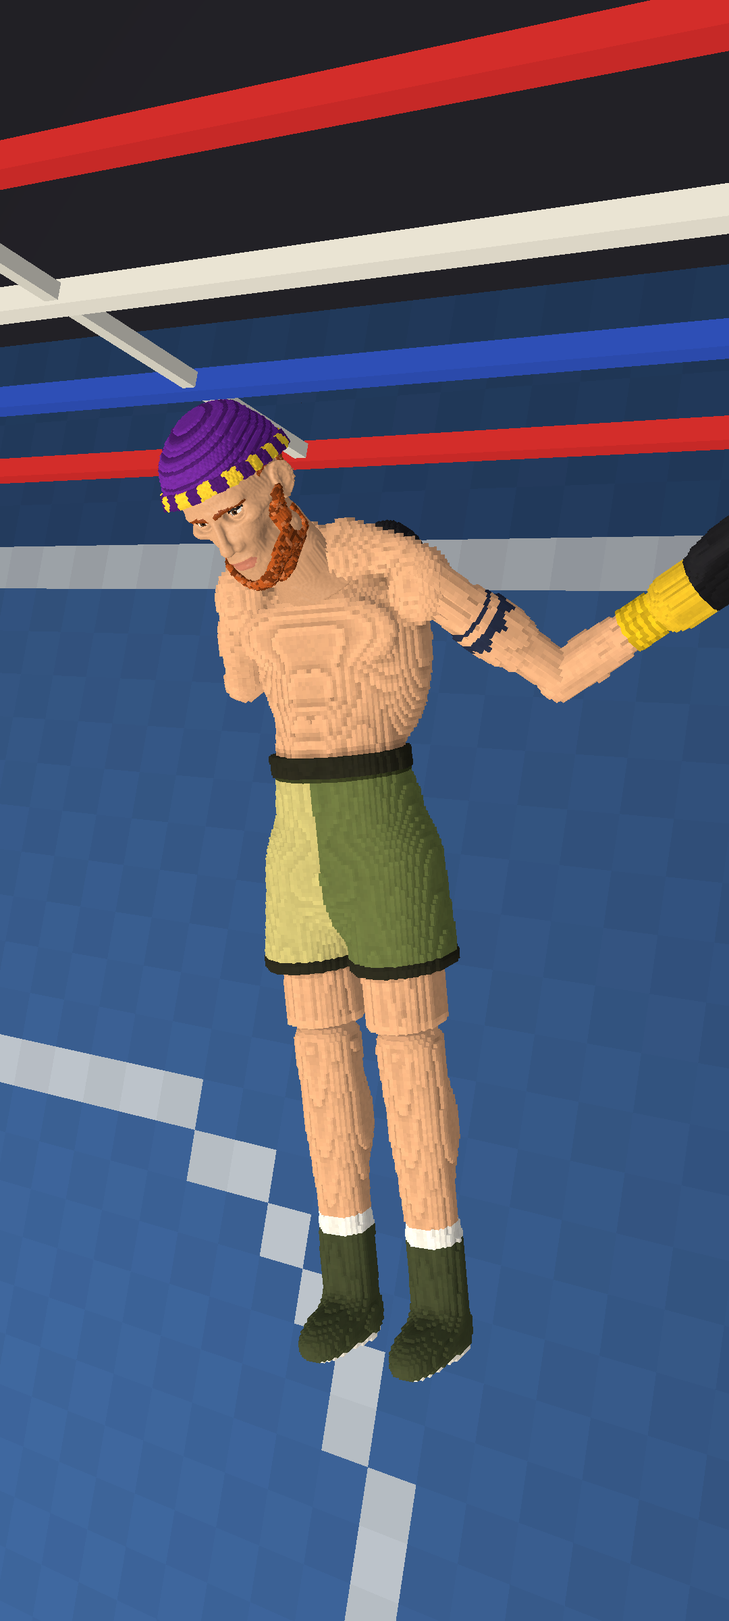
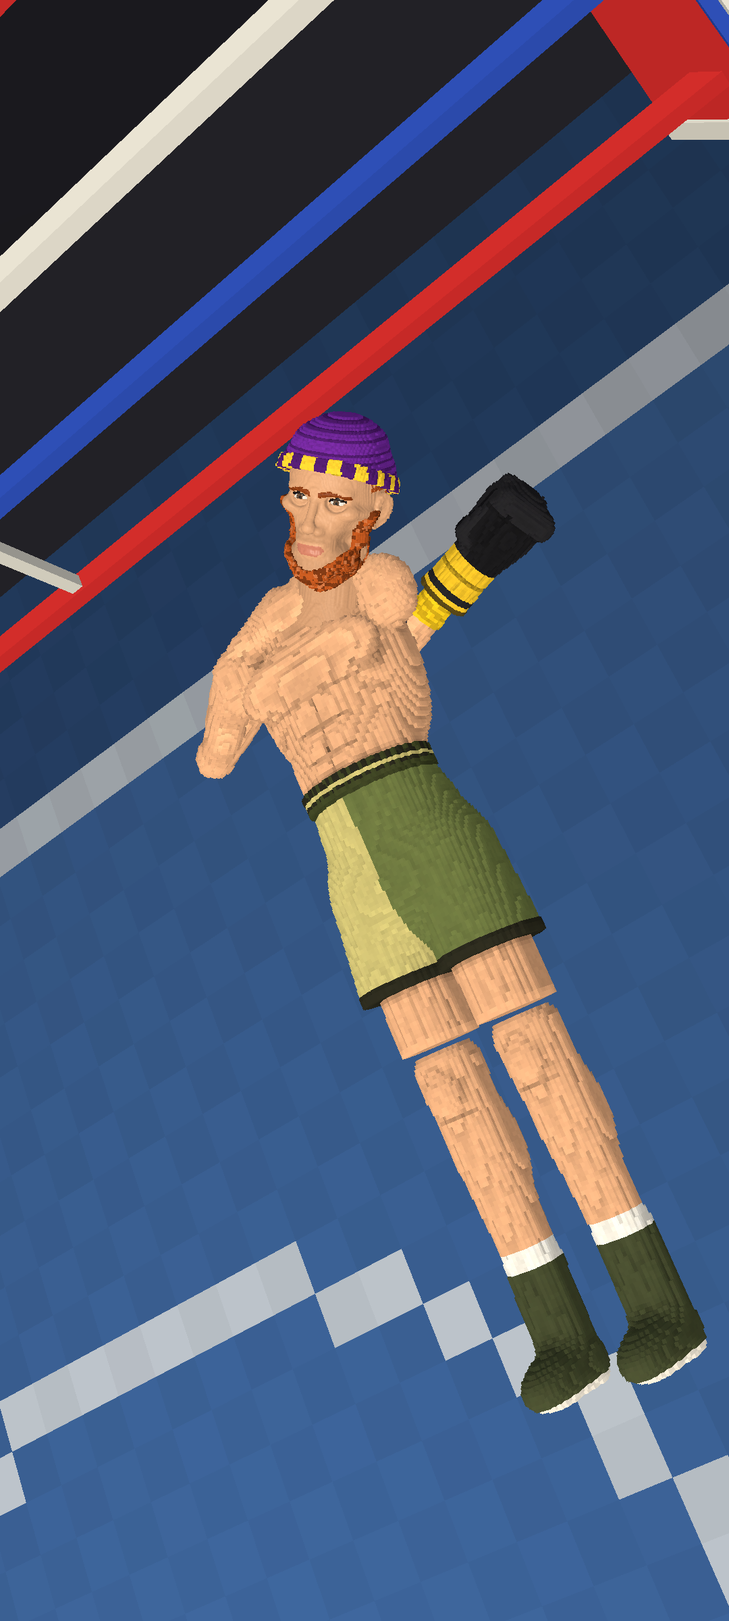
PHYSICS.md: падение с твёрдым корпусом — таблицы до/после, «Не сделано» по факту; переснятые снимки падения и плашки удара (портрет и ландшафт)

diff --git a/Unity/PHYSICS.md b/Unity/PHYSICS.md
@@ -1,6 +1,6 @@
 # Физика боя (Unity): отчёт
 
-Ветка `claude/fight-physics-dee515`, 26.11.2026. В main не слито и не запушено. Влит `origin/main` по 02ca796 (руки и тело, обход плашки).
+Ветка `claude/fight-physics-dee515`, 26.11.2026. В main не слито и не запушено. Влит `origin/main` по 1ad5329 (эмоции соперников: мимика и события лица работают вместе с новой реакцией головы).
 
 Все замеры сделаны в редакторе: в стендах `ShotsTaker.Phys*` (`Assets/Game/Editor/PhysicsProbe.cs`) и в тестах `PhysicsTests`. **На телефоне ничего не мерили**: время ниже — это редактор на ПК, частота кадров из него на телефон не переносится.
 
@@ -9,13 +9,13 @@
 | Направление | Итог |
 |---|---|
 | 1. Реакция на удар | Да, все критерии |
-| 2. Руки | Да, все критерии. Но отдача перчатки игрока ломает `FxDirectorTests.HitFx2_Criteria` (плашка удара), см. «Не сделано» |
-| 3. Нокдаун и падение | Да по старым критериям, кроме засыпания: 6 из 200 падений > 2,5 с (худшее 3,15 с) |
-| 3+. Пределы суставов | Суставы: почти (4 кадра из 47 200, худшее превышение 5,5°). Переразгибание и «книжка» ног: да. Взаимопроникновение ≤ 1,5 / 0,5 см: **нет** (11,3 / 6,5 см) |
+| 2. Руки | Да, все критерии. Плашка удара обходит руку игрока и в отдаче, `HitFx2_Criteria` зелёный без изменения порогов |
+| 3. Нокдаун и падение | Да: все 200 падений засыпают ≤ 2,5 с (худшее 2,47 с) |
+| 3+. Пределы суставов | Суставы: да (0 кадров за пределом). Переразгибание и «книжка» ног: да. Взаимопроникновение ≤ 1,5 / 0,5 см: **почти** — 64 кадра из 47 200 хуже 1,5 см (худшее 6,98 см), в покое худшее 0,68 см |
 | 4. Куски и капли | Да, все критерии |
 | Общие | Детерминизм, seed 77 и время: да. Частота кадров 30/60/120: да |
 
-Тесты: `VoxGame.Tests` 251/252 (красный `FxDirectorTests.HitFx2_Criteria`, причины ниже), `VoxProbe.Tests.Anatomy` 65/0. `ForearmTests` зелёные.
+Тесты: `VoxGame.Tests` 257/257 два прогона подряд; `VoxProbe.Tests` 75/0 отдельно (два прогона), сразу после тестов игры 74/75 — красный известный `AnatomyB10Tests.StumpMuscleLayersRender`.
 
 ## Как было, что было плохо
 
@@ -26,25 +26,29 @@
 
 ## Что изменено (файлы)
 
-- `Runtime/Presentation/FoeSpring.cs`: реакция цепочкой голова → корпус → корень с фиксированным шагом; удар в защиту — короткая отдача.
+- `Runtime/Presentation/FoeSpring.cs`: реакция цепочкой голова → корпус → корень с фиксированным шагом; удар в защиту — короткая отдача: голова получает 0,85 толчка, а после пика возврат идёт с жёсткой пружиной (защёлки `brake` по голове, шее, корню, повороту и скруту).
 - `Runtime/Presentation/FoeFall.cs` (новый): тряпичная кукла на 13 узлах.
   - Позиционная динамика: шаг 1/120, 6 итераций.
   - Ринг: настил и канаты; затухание в контакте, засыпание по RMS скорости, ограничение сдвига за подшаг.
   - Пределы: локоть ≥ 36° между плечом и предплечьем (сгиб ≤ 144°); плечо в конусе 115°; колено 0…140° (шарнир в отрисовке).
-  - Капсулы рук против корпуса, головы, голеней и другой руки. Если тело ложится на руку, приподнимается корпус, а руку не вдавливает в настил.
+  - Корпус (таз, грудь, плечи, колени) — твёрдое тело: после каждой итерации узлы ставятся на места по лучшему повороту формы по всем шести узлам (вращательная часть деформации). Раньше узел плеча уходил от плеча модели до 5 см, и развод рук в физике до модели не доходил.
+  - Капсулы рук против корпуса, головы, голеней и другой руки, с запасом 0,8 см. Добавлены пары: кулак — чужое плечо и предплечье, плечо — плечо, голова — плечо у сустава (двигается голова).
+  - Если тело ложится на руку, корпус приподнимается, но не выше, чем помещается рука (центр корпуса ≤ 26 см над настилом). Без этого предела плечо тянуло руку вверх вслед за корпусом, и тело «всплывало» на метры.
+  - Засыпает только тело на настиле (3+ узла в касании); после 1,9 с порог скорости в 4 раза мягче.
 - `Runtime/Presentation/FoeBody.cs`: перенос узлов падения на модель (`FallMap`), шарнир колена, шея со swing-twist-пределом (наклон 55°, скручивание 40°).
   - Руки лёжа: IK с полюсом от узла локтя; плечо ограничено конусом 115°; путь руки на подъёме идёт через сторону от плеча, а не сквозь корпус.
-  - Перчатка и предплечье выталкиваются из корпуса и головы (3 прохода), перчатка не уходит ниже настила.
+  - Общий проход по обеим рукам (`ArmsApart`, до 8 итераций) с теми же капсулами, что считает замер: корпус, голова, голени, другая рука. Локоть и запястье ставятся прямо, звенья постоянной длины, плечо в конусе 115°; тыльная сторона поворачивается вслед за плечом. В паре «рука — рука» сдвигается внешняя от корпуса рука. Перчатка не уходит ниже настила.
   - Подъём из замороженной позы: корпус поворачивается по пути, выбранному один раз, без рывка.
 - `Runtime/Presentation/BoxerParts.cs`: в `SolveArm` добавлен параметр наименьшего расстояния плечо–кулак (`nearM`). Игрок не меняется.
-- `Runtime/Presentation/PlayerGloves.cs`: отдача перчатки игрока после попадания.
-- `Runtime/Presentation/FightDirector.cs`: куски в рамке ринга, `SetArena` и `ResetFall`.
+- `Runtime/Presentation/PlayerGloves.cs`: отдача перчатки игрока после попадания; позы руки в отдаче (`RecoilGhost`: IK с перчаткой на 0, ½ и полной отдаче к плечу, перчатка сплющена) для обхода плашки.
+- `Runtime/Effects/FxDirector.cs`: маска рук для плашки удара учитывает позы отдачи (`ArmGhost`). Запрет на `Runtime/Effects/*` снят главным чатом.
+- `Runtime/Presentation/FightDirector.cs`: куски в рамке ринга, `SetArena` и `ResetFall`, подключение `ArmGhost`. Часть `AnatSkin` не трогал.
 - `Probe/Runtime/Anatomy/AnatPieces.cs`: режим `space` (рамка ринга), время засыпания.
 - `Runtime/Presentation/PhysMetrics.cs`: метрики для стендов.
 - Стенды в `Editor/PhysicsProbe.cs`: `PhysReact`, `PhysArms`, `PhysFalls`, `PhysKO`, `PhysPieces`, `PhysLimbShots`, `PhysTiming`.
 - Тесты в `Tests/PhysicsTests.cs`, в том числе `FallStaysInRingAndFollowsHit`, `FallFrameRateIndependent`, `FallKeepsJointLimits`, `PiecesLieOnRingFloor`.
 
-Геометрию и окраску моделей, `Runtime/Effects/*` и веб-версию не трогал.
+Геометрию и окраску моделей и веб-версию не трогал.
 
 ## 1. Реакция на удар (`PhysReact`, 60 к/с)
 
@@ -55,7 +59,7 @@
 | Пик корпуса позже головы | 2–8 кадров | 0 | 4–5 |
 | Успокоение | 0,35–0,9 с | 0,63 с | 0,53 с |
 | Переходы через ноль | ≤ 2 | 1 | 0 |
-| Удар в защиту | короткая отдача | голова 1,87 см | голова 4,21 см, успокоение 0,53 с |
+| Удар в защиту | короткая отдача | голова 1,87 см | пик головы 7,63 см (0,73 хука), возврат до четверти пика быстрее хука (тест `StrongBeatsWeak_GuardShort`), успокоение 0,52 с |
 
 Частота кадров: при 30, 60 и 120 к/с пики совпадают до 0,3 %; запаздывание 2 / 4 / 8 кадров — это одни и те же 67 мс.
 
@@ -76,13 +80,14 @@
 | NaN | 0 | — | 0 |
 | Узлы ниже настила > 2 см | 0 | сетка до −51 см | 0 (узлы); сетка — худшее −8,8 см (предплечье) |
 | Вне ринга | 0 | бывало | 0 |
-| Лежит за ≤ 2,5 с | все | — | 194/200, худшее 3,15 с |
-| Ложится по удару (≤ 45°) | ≥ 90 % | — | 96,5 % (7 из 200 хуже, худшее 87,7°) |
+| Лежит за ≤ 2,5 с | все | — | 200/200, худшее 2,47 с (было 194/200, худшее 3,15 с) |
+| Ложится по удару (≤ 45°) | ≥ 90 % | — | 97,5 % (5 из 200 хуже, худшее 65,1°; было 96,5 %, 87,7°) |
 | Рывок при подъёме | ≤ 5 % роста за кадр | рывок 28–67 см | 2,84 % |
 | Поза после подъёма | как стойка | — | расхождение 0,06 см |
-| Нокаут (20 падений) | | | 0 NaN, 0 под настилом, 0 вне ринга, засыпание ≤ 2,05 с, по удару 95 % |
-| 30 / 120 к/с (по 20 падений) | то же | | засыпание ≤ 2,23 / 2,28 с, по удару 100 / 100 %, рывок 2,73 / 3,33 % |
-| У угла ринга (20 падений) | | | засыпание ≤ 1,98 с, по удару 100 %, рывок 2,54 % |
+| Нокаут (20 падений) | | | 0 NaN, 0 под настилом, 0 вне ринга, засыпание ≤ 2,15 с, по удару 100 % |
+| 30 / 120 к/с (по 20 падений) | то же | | засыпание ≤ 2,17 / 2,15 с, по удару 100 / 95 %, рывок 2,63 / 3,33 % |
+| У угла ринга (20 падений) | | | засыпание ≤ 2,45 с, по удару 95 %, рывок 2,55 % |
+| Сетка ниже настила | | | худшее −5,2 см (ноги; было −8,8 см, предплечье) |
 
 ## 3+. Пределы суставов и взаимопроникновение
 
@@ -90,11 +95,11 @@
 
 | Сустав | Предел в физике и позе | Предел в замере | Худшее за 200 падений |
 |---|---|---|---|
-| Колено | 0…140° (шарнир, без переразгибания) | 0…140°, переразгибание ≤ 5° | 140,0°, переразгибание 0° |
+| Колено | 0…140° (шарнир, без переразгибания) | 0…140°, переразгибание ≤ 5° | 140,0°, переразгибание 0°. С твёрдым корпусом колени гнутся реже: в покое обычно прямые ноги |
 | Локоть | сгиб ≤ 144° (плечо–предплечье ≥ 36°), 0° — прямая рука | 0…145° | 143,7°, переразгибания нет |
-| Плечо | конус 115° от «наружу-вниз»; скручивание переносом стойки без поворота на 180° | конус 120°, скручивание 100° | конус 125,5° (4 кадра > 123°), скручивание 55,1° |
+| Плечо | конус 115° от «наружу-вниз»; скручивание переносом стойки без поворота на 180° | конус 120°, скручивание 100° | конус 115,0° (0 кадров > 123°; было 125,5°), скручивание 74,7° |
 | Шея | наклон 55°, скручивание 40° (swing-twist) | 60° / 45° | 55,0° / 7,7° |
-| Запястье | перчатка по линии предплечья | 30° | 9,5° |
+| Запястье | перчатка по линии предплечья | 30° | 10,6° |
 | Бедро и поясница | жёстко: бедро — часть сетки корпуса | бедро–корпус ≥ 30° | 180° (прямо) |
 | Голеностоп | жёстко: голени и ботинки — одна сетка | — | — |
 
@@ -102,26 +107,32 @@
 
 ### Критерии (счёт по кадрам после 0,2 с и в позе покоя, `PhysFalls`)
 
-| Критерий | Нужно | Худшее значение | Где |
-|---|---|---|---|
-| Кадры со суставом > предела на 3° | 0 | **4 кадра из 47 200**, плечо 5,53° | seed=15 k=6 t=1,13 |
-| Переразгибание колена или локтя > 5° | 0 | 0 | — |
-| Взаимопроникновение после 0,2 с | ≤ 1,5 см | **11,3 см** (плечо1–перчатка0) | seed=18 k=6 t=2,00 |
-| Взаимопроникновение в покое | ≤ 0,5 см | **6,47 см** (корпус–предплечье1) | seed=3 k=0 t=1,70 |
-| Бедро–голень в покое | ≥ 35° | 40° | — |
-| Бедро–корпус в покое | ≥ 30° | 180° (жёсткое бедро) | — |
-| Обе голени в одном объёме | 0 | 0/200 | — |
-| Нокаут (20 падений) | | суставы 0, переразгибание 0, проникновение 3,27 см, в покое 1,47 см | — |
-| 30 / 120 к/с | | суставы 0 / 0, проникновение 5,86 / 5,86 см, в покое 5,74 / 0,86 см | — |
+| Критерий | Нужно | До (17546f3) | После | Где худшее |
+|---|---|---|---|---|
+| Кадры со суставом > предела на 3° | 0 | 4 из 47 200, плечо 5,53° | **0** | — |
+| Переразгибание колена или локтя > 5° | 0 | 0 | 0 | — |
+| Взаимопроникновение после 0,2 с | ≤ 1,5 см | 11,3 см; кадров > 1,5 см: 3 640 | **6,98 см; кадров > 1,5 см: 64 из 47 200 (0,14 %)** — корпус–предплечье 32, голова–плечо 23, плечо–плечо 3, плечо–предплечье 3, перчатка–перчатка 2, корпус–предплечье0 1 | seed=5 k=9 t=1,65 |
+| Взаимопроникновение в покое | ≤ 0,5 см | 6,47 см | **0,68 см** (голова–плечо у сустава) | seed=3 k=4 |
+| Засыпание ≤ 2,5 с | все 200 | 194/200, 3,15 с | **200/200**, 2,47 с | — |
+| Бедро–голень в покое | ≥ 35° | 40° | 40° | — |
+| Бедро–корпус в покое | ≥ 30° | 180° | 180° (жёсткое бедро) | — |
+| Обе голени в одном объёме | 0 | 0/200 | 0/200 | — |
+| Нокаут (20 падений) | | проникновение 3,27 см, в покое 1,47 см | суставы 0; **0,12 см, в покое 0** | — |
+| 30 к/с (20 падений) | | 5,86 / 5,74 см | суставы 0; **4,44 см** (3 кадра > 1,5 см), **в покое 0** | seed=3 k=1 |
+| 120 к/с (20 падений) | | 5,86 / 0,86 см | суставы 0; **5,35 см** (7 кадров > 1,5 см), **в покое 0,69 см** | seed=3 k=1 |
+| У угла ринга (20 падений) | | 9,34 / 3,37 см | суставы 0; 6,42 см (10 кадров), в покое 0 | seed=3 k=1 |
+| Узлы физики друг в друге | (справочно) | 6,0 см, 1 573 кадра > 1,5 см | 17,5 см, 323 кадра | seed=3 k=1 t=1,23 |
 
-Взаимопроникновение — это перекрытие капсул сегментов на модели: корпус 13 см, голова 11, плечо 5, предплечье 4,5, перчатка 7, голень 5,5 см (радиусы × масштаб бойца); соседние звенья не считаются. Больше всего кадров > 1,5 см дают пары корпус–предплечье (922 + 466), плечо1–перчатка0 (915), голова–плечо (594 + 385). В узлах самой физики перекрытие меньше (худшее 6 см). Основная часть ошибки возникает при переносе узлов на модель: длины звеньев в IK модели другие, перчатку не пускают ниже настила. Выталкивание руки из корпуса уже в отрисовке снизило худшее значение с 20,2 до 11,3 см, но покой на seed=3 k=0 ухудшился с 5,3 до 6,5 см.
+Взаимопроникновение — это перекрытие капсул сегментов на модели: корпус 13 см, голова 11, плечо 5, предплечье 4,5, перчатка 7, голень 5,5 см (радиусы × масштаб бойца); соседние по суставу пары не считаются.
+
+**Почему не до конца.** Остаток — редкие кадры, где предплечье в движении проходит сквозь корпус: узел физики проскакивает ось корпуса за подшаг, и выталкивание ведёт его дальше, на другую сторону (это же видно в «узлах физики»: 17,5 см у seed=3 k=1). Проход по рукам на модели за 8 итераций такой случай не разводит; 16 итераций хуже (скручивание плеча до 20° сверх предела, в покое 1,4 см). В покое остаётся голова у самого плечевого сустава (0,68 см): рукой его не убрать, голову двигает только физика, а поза шеи на модели (swing-twist 55°/40°) возвращает её на несколько миллиметров. Это не предел геометрии модели; нужен непрерывный (по пути) контакт предплечья с корпусом в `FoeFall`.
 
 Тест `FallKeepsJointLimits` (обычное падение и нокаут, по 20 падений) считает по кадрам:
 - суставы: 0 кадров с превышением;
 - переразгибание: 0;
 - «книжка» ног: 0;
 - бедро–голень ≥ 35°, бедро–корпус ≥ 30°;
-- взаимопроникновение — только защита от ухудшения: ≤ 7 см в покое и ≤ 22 см в любом кадре. Критерию задания это не отвечает.
+- взаимопроникновение: в покое ≤ 1 см, в любом кадре ≤ 7 см (сейчас на этих 20 падениях 0,68 / 5,86 см; было ≤ 7 / 22 см).
 
 ## 4. Куски и капли (`PhysPieces(20)`, 20 боёв)
 
@@ -129,37 +140,36 @@
 |---|---|---|---|
 | Под настилом через 3 с | 0 | падали сквозь настил (рамка головы) | 0 из 120 |
 | Висящие | 0 | бывали | 0 |
-| Уснули за ≤ 3 с | ≥ 90 % | — | 120/120 (100 %), худшее 2,92 с |
-| Пики | в пределах | | куски 9/24, капли 52/70, раны 12/44, нити 3/6, капли-брызги 25/160 |
+| Уснули за ≤ 3 с | ≥ 90 % | — | 118/118 (100 %), худшее 2,91 с (кусков 118, а не 120: бои после влития main и правки удара в защиту идут иначе) |
+| Пики | в пределах | | куски 9/24, капли 52/70, раны 12/44, нити 3/6, капли-брызги 21/160 |
 
 ## Общие требования
 
 | Критерий | Нужно | Итог |
 |---|---|---|
-| Детерминизм | | да: стенды повторяются до цифры, seed 77 ниже |
+| Детерминизм | | да: два прогона `FallStats(6,10)` совпали до символа, стенды реакции и рук повторяют прошлые цифры, seed 77 ниже |
 | Частота кадров | 30/60/120 к/с — тот же исход, пики в пределах 5 % | реакция: до 0,3 %; падения — таблица 3; тест `FallFrameRateIndependent` зелёный |
-| Контроль seed 77 (`AnatShotsB2.Run`) | 78 ударов; 147 880 / 149 586 / 157 850 / 156 238 / 51 928; куски 75 212 | совпало до единицы |
+| Контроль seed 77 (`AnatShotsB2.Run`) | 78 ударов; 148 018 / 149 586 / 157 850 / 156 238 / 51 928; куски 75 212 | совпало до единицы (первое число в прошлом отчёте 147 880 — до влития main с эмоциями) |
 | `SpringBench(40)`, кадр удара | до и после | медиана 18,5 → 17,8 мс, p90 35,7 → 34,0 мс; вклад пружин в тик тела 0,003 мс |
-| Физика тела за кадр (`PhysTiming`, 8 020 кадров) | медиана ≤ 1,5 мс, p90 ≤ 3 мс | до 0,005 / 0,008 мс → после 0,022 / 0,29–0,33 мс; p99 0,55–0,58 мс |
-| Кадр нокдауна | сообщить пик | медиана 0,28–0,32 мс, пик 0,47 мс. Первый холодный прогон в редакторе: 16,4 мс один раз (JIT, первая компиляция кода падения) |
+| Физика тела за кадр (`PhysTiming`, 8 020 кадров) | медиана ≤ 1,5 мс, p90 ≤ 3 мс | до 0,005 / 0,008 мс → 0,028 / 0,51 мс; p99 0,69 мс, пик 1,20 мс |
+| Кадр нокдауна | сообщить пик | медиана 0,60 мс, пик 1,07 мс (было 0,28–0,32 / 0,47 мс): твёрдый корпус и проход по рукам. Редактор на ПК |
 
 ## Снимки (`Unity/Shots/physics/`, портрет 1080×2400, все просмотрены)
 
 - Реакция: `jab-f0/f3/f8/f20`, `hook-*`, `upper-*`, `weak-peak`, `strong-peak`; до — `before-hook-f8`.
-- Падение в бою: `ko-f0`, `ko-f10`, `ko-f25`, `ko-rest`, `ko-rest-land`, `ko-left-rest`, `ko-right-rest`, `ko-getup`; до — `before-ko-rest`.
-- Пределы суставов: `ko-limbs-1` … `ko-limbs-6` — шесть поз покоя крупно, видны все четыре конечности; `ko-worst` — худшая по проникновению поза из снятых (2,5 см, плечо у затылка).
-  - Просмотрено: рука в руке и в теле не видна, против сустава ничего не согнуто.
-  - Позы однообразны: почти все на спине, ноги прямые.
+- Падение в бою: `ko-f0`, `ko-f10`, `ko-f25`, `ko-rest`, `ko-rest-land`, `ko-left-rest`, `ko-right-rest`, `ko-getup`; до — `before-ko-rest`. Всё, кроме `ko-right-rest`, переснято 26.11.2026 (`PhysKO`).
+- Пределы суставов: `ko-limbs-1` … `ko-limbs-6` — шесть поз покоя крупно, видны все четыре конечности; `ko-worst` — худшая по проникновению поза из снятых (`PhysLimbShots`, 12 падений): теперь 0 см у всех двенадцати.
+  - Переснято 26.11.2026 и просмотрено: рука в руке и в теле не видна, против сустава ничего не согнуто. В `ko-limbs-3` левая перчатка ушла за бедро (не видна, замер — 0 см).
+  - Позы однообразны: почти все на спине, ноги прямые, одна рука у головы.
+- Плашка удара: `fx-jab-plate`, `fx-hook-plate` (портрет), `fx-jab-plate-land`, `fx-hook-plate-land` (ландшафт), кадры пика `fx-*-peak*`. Плашка стоит у места удара и не заходит на руки игрока: перекрытие 0 / 0,4 % (джеб), 0 / 0 % (хук), до точки удара 0,238–0,249 при пределе 0,25.
 - Куски: `pieces-fly`, `pieces-rest`, `drips`; до — `before-pieces-rest`.
 
 ## Не сделано или не проверено
 
-- **`FxDirectorTests.HitFx2_Criteria` красный.**
-  - Плашка удара заходит на руки игрока: 9–15 % при пороге 5 % (джеб, хук в ландшафте). Причина — отдача перчатки игрока из направления 2: при выключенной отдаче 0–1,2 %. Плашка обходит руку по пути возврата к стойке, а отдача уводит руку с этого пути. Поправить это можно только в обходе плашки (`Runtime/Effects/*`), его по заданию не трогал. Ослабление отдачи до 0,45 не помогло (8,3 %), гашение отдачи по вытяжке руки тоже не помогло.
-  - Отдельно у хука в портрете пикселей крови 17 053 при пороге 18 000. Без отдачи их ещё меньше (15 540), значит, причина в другом, вероятно в новой реакции головы. Не разбирал.
-- **Взаимопроникновение** не отвечает критерию: 11,3 см в кадре и 6,5 см в покое при нужных 1,5 и 0,5 см.
-- **Плечо:** 4 кадра из 47 200 выходят за конус больше чем на 3°, худшее 5,5°.
-- **Засыпание:** 6 из 200 падений лежат дольше 2,5 с (худшее 3,15 с). В бою и в нокауте все ≤ 2,3 с.
+- **Взаимопроникновение — не до конца.** 64 кадра из 47 200 (0,14 %) хуже 1,5 см, худшее 6,98 см; в покое худшее 0,68 см при пределе 0,5 см; на 30 / 120 к/с в кадре 4,44 / 5,35 см. Причина — проскок предплечья сквозь корпус за подшаг физики и голова у плечевого сустава (подробно в разделе 3+). Это не предел геометрии модели: нужен непрерывный контакт предплечья с корпусом в `FoeFall`.
+- **Запас плашки удара мал:** расстояние до точки удара 0,248 (джеб) и 0,249 (хук) при пределе 0,25.
+- **Колени лёжа почти всегда прямые:** твёрдый корпус убрал подламывание колен от мягкости связей. Пределы и тесты в порядке, но позы на спине однообразнее.
+- **Худшие кадры из 200 падений не сняты:** `ko-worst` берётся из 12 падений `PhysLimbShots`, там проникновения нет. Кадр seed=5 k=9 из `PhysFalls` стендом снимков не воспроизводится.
 - **`before-ko-limbs.png` не снят:** плохую позу «до» показать нечем, старого падения как куклы не было. Пример старого падения — `before-ko-rest.png`.
 - **Сгиб бедра и разведение ног** невозможны без правки геометрии модели.
 - **На телефоне ничего не мерили.** Время и частота кадров — только редактор на ПК.
